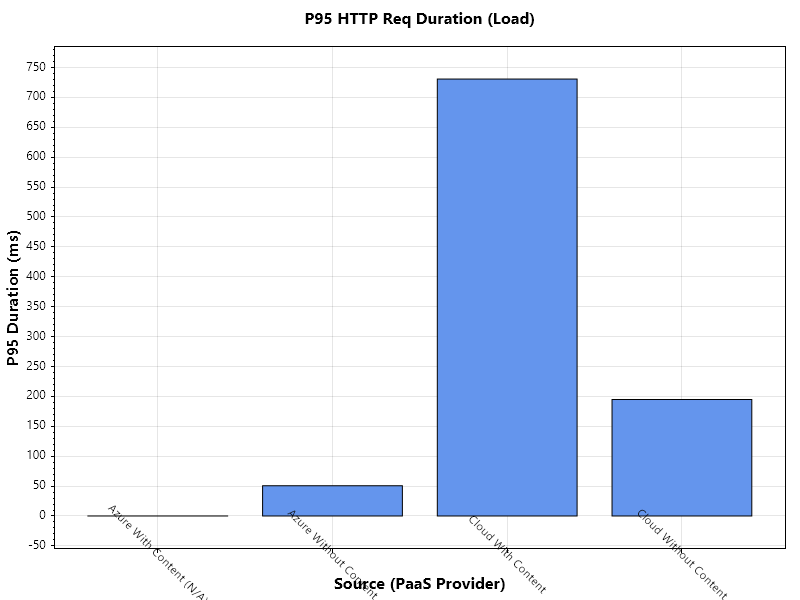
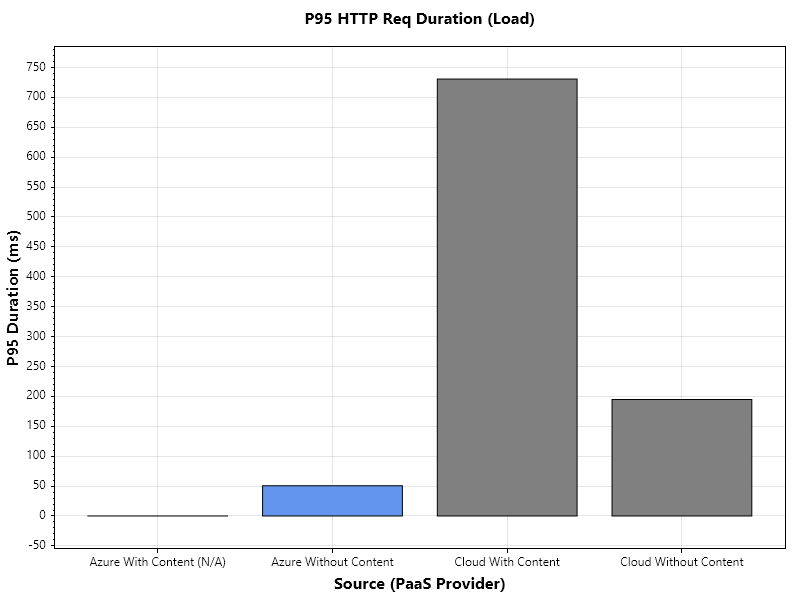
Minor plotting-design change

diff --git a/K6ResultComparer/K6Visualizer.cs b/K6ResultComparer/K6Visualizer.cs
@@ -422,37 +422,43 @@ namespace K6ResultAnalyzer
             return results;
         }
 
-        // Generates and saves a bar plot using ScottPlot 5 API
         public static void GenerateBarPlot(
             List<K6Result> data,
             string metricName,
-            Func<K6Result, double?> valueSelector, // Function to extract the numeric value
-            List<string> sources, // Ensure consistent order
+            Func<K6Result, double?> valueSelector,
+            List<string> sources,
             string title,
             string yLabel,
             string filePath)
         {
-            var plot = new Plot(); // ScottPlot 5: Constructor is parameterless
+            var plot = new Plot();
 
-            var barValues = new List<double>();
-            var barPositions = new List<double>();
-            var labels = new List<Tick>(); // Ticks for custom labels
+            var labels = new List<Tick>();
             bool dataFound = false;
 
-            // Prepare data for the bar plot
+            // List to track bar data by category (e.g. Azure, Umbraco)
+            var azurePositions = new List<double>();
+            var azureValues = new List<double>();
+
+            var umbracoPositions = new List<double>();
+            var umbracoValues = new List<double>();
+
+            var fallbackPositions = new List<double>();
+            var fallbackValues = new List<double>();
+
             for (int i = 0; i < sources.Count; i++)
             {
                 var source = sources[i];
                 var metricData = data.FirstOrDefault(r => r.Source == source && r.Metric == metricName);
                 double? value = metricData != null ? valueSelector(metricData) : null;
 
-                double barValue = 0; // Default to 0 if no data
-                string labelText = $"{source} (N/A)"; // Default label
+                double barValue = 0;
+                string labelText = $"{source} (N/A)";
 
                 if (value.HasValue)
                 {
                     barValue = value.Value;
-                    labelText = source; // Use source name as label
+                    labelText = source;
                     dataFound = true;
                 }
                 else
@@ -460,11 +466,24 @@ namespace K6ResultAnalyzer
                     Console.WriteLine($"Warning: No data found for Metric='{metricName}', Source='{source}' in plot '{title}'");
                 }
 
-                barPositions.Add(i); // X position for this bar
-                barValues.Add(barValue); // Y value for this bar
-
-                // Create a corresponding tick label
                 labels.Add(new Tick(i, labelText));
+
+                // Add to corresponding color group
+                if (source.Contains("Azure", StringComparison.OrdinalIgnoreCase))
+                {
+                    azurePositions.Add(i);
+                    azureValues.Add(barValue);
+                }
+                else if (source.Contains("Umbraco", StringComparison.OrdinalIgnoreCase))
+                {
+                    umbracoPositions.Add(i);
+                    umbracoValues.Add(barValue);
+                }
+                else
+                {
+                    fallbackPositions.Add(i);
+                    fallbackValues.Add(barValue);
+                }
             }
 
             if (!dataFound)
@@ -473,39 +492,48 @@ namespace K6ResultAnalyzer
                 return;
             }
 
-            // Add the bars to the plot
-            // The Add.Bars method creates a BarPlot object representing the series
-            var barPlot = plot.Add.Bars(barPositions.ToArray(), barValues.ToArray());
+            // Add separate bar series for each group
+            if (azurePositions.Count > 0)
+            {
+                var azureBars = plot.Add.Bars(azurePositions.ToArray(), azureValues.ToArray());
+                azureBars.Color = Colors.CornflowerBlue;
+                azureBars.ValueLabelStyle.OffsetY = -5;
+                azureBars.ValueLabelStyle.Bold = true;
+                azureBars.ValueLabelStyle.ForeColor = Colors.Black;
+            }
 
-            // Style the bars (optional, but good for clarity)
-            barPlot.Color = Colors.CornflowerBlue; // Set a base color
-                                                   // If you want different colors per bar, you might need a different approach
-                                                   // or access the plot's palette more directly if Add.Bars doesn't cycle automatically.
-                                                   // For now, using one color. You can create multiple BarPlot objects if needed.
+            if (umbracoPositions.Count > 0)
+            {
+                var umbracoBars = plot.Add.Bars(umbracoPositions.ToArray(), umbracoValues.ToArray());
+                umbracoBars.Color = Color.FromHex("#2A4B8D"); // mörkare blå
+                umbracoBars.ValueLabelStyle.OffsetY = -5;
+                umbracoBars.ValueLabelStyle.Bold = true;
+                umbracoBars.ValueLabelStyle.ForeColor = Colors.Black;
+            }
 
-            // Style the labels above the bars
-            //barPlot.ValueLabelStyle.Visible = true; // Corrected typo: Visible
-            //barPlot.ValueLabelStyle.Format = "{0:F2}"; // Format the value labels (e.g., 2 decimal places)
-            barPlot.ValueLabelStyle.OffsetY = -5; // Adjust label position slightly if needed
-            barPlot.ValueLabelStyle.Bold = true;
-            barPlot.ValueLabelStyle.ForeColor = Colors.Black;
+            if (fallbackPositions.Count > 0)
+            {
+                var fallbackBars = plot.Add.Bars(fallbackPositions.ToArray(), fallbackValues.ToArray());
+                fallbackBars.Color = Colors.Gray;
+                fallbackBars.ValueLabelStyle.OffsetY = -5;
+                fallbackBars.ValueLabelStyle.Bold = true;
+                fallbackBars.ValueLabelStyle.ForeColor = Colors.Black;
+            }
 
+            // X-etiketter
+            plot.Axes.Bottom.TickGenerator = new NumericManual(labels.ToArray());
+            plot.Axes.Bottom.TickLabelStyle.Rotation = 0;
+            plot.Axes.Bottom.TickLabelStyle.Alignment = Alignment.LowerCenter;
 
-            // Customize axes and title using ScottPlot 5 API
-            plot.Axes.Bottom.TickGenerator = new NumericManual(labels.ToArray()); // Set custom labels for X-axis ticks
-            plot.Axes.Bottom.TickLabelStyle.Rotation = 45; // Rotate labels if they overlap
-            plot.Axes.Bottom.Label.Text = "Source (PaaS Provider)"; // Set X-axis label
-            plot.Axes.Left.Label.Text = yLabel; // Set Y-axis label
-            plot.Axes.Title.Label.Text = title; // Set Plot title
+            plot.Axes.Bottom.Label.Text = "Source (PaaS Provider)";
+            plot.Axes.Left.Label.Text = yLabel;
+            plot.Axes.Title.Label.Text = title;
 
-            // Adjust layout slightly if needed
-            plot.Axes.AutoScale(); // Ensure axes fit the data
+            plot.Axes.AutoScale();
 
-            // Save the plot using ScottPlot 5 API
             try
             {
-                // Set explicit size before saving
-                plot.Save(filePath, 800, 600); // Increased size slightly for better label visibility
+                plot.Save(filePath, 800, 600);
                 Console.WriteLine($"  - Saved plot: {Path.GetFileName(filePath)}");
             }
             catch (Exception ex)
@@ -513,9 +541,8 @@ namespace K6ResultAnalyzer
                 Console.ForegroundColor = ConsoleColor.Red;
                 Console.WriteLine($"Error saving plot '{filePath}': {ex.Message}");
                 Console.ResetColor();
-                // ScottPlot might throw if rendering context is unavailable (e.g., some server environments)
-                // Or if the file path is invalid/inaccessible.
             }
         }
+
     }
 }
